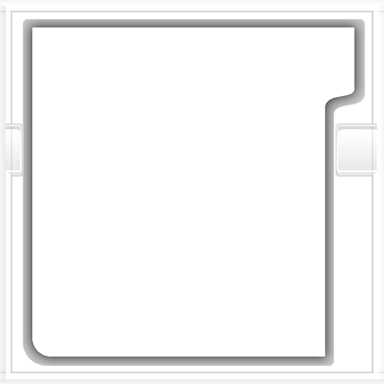
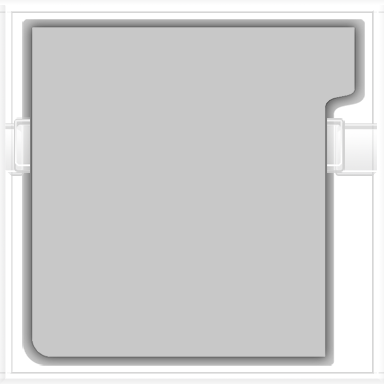
マウスオーバーの処理
マウスオーバー時、
* ツメが外れる
* 回転して少し大きくなる
ように。また、余りを詰める分の外枠の背景色を濃くした

diff --git a/r/view.js b/r/view.js
@@ -2,15 +2,11 @@ $(function(){
 	// インスタンス
 	var $item = $('<div>').addClass('col-lg-4 col-md-6 col-sm-6 col-xs-12 h4p_item').append(
 	).append(
-		$('<div>').addClass('h4p_item-frame').css('z-index', '5').append(
-			$('<img>').attr('src', '../img/cassette/tab.png')
+		$('<div>').addClass('h4p_item-frame h4p_item-front h4p_item-transform').css('z-index', '10').append(
+			$('<img>').attr('src', '../img/cassette/inner_tab.png')
 		)
 	).append(
-		$('<div>').addClass('h4p_item-cassette').append(
-			$('<div>').addClass('h4p_item-frame').css('z-index', '4').append(
-				$('<img>').attr('src', '../img/cassette/inner.png')
-			)
-		).append(
+		$('<div>').addClass('h4p_item-transform').append(
 			$('<div>').addClass('h4p_item-frame h4p_item-thumbnail').css({
 				'top':   40,
 				'left':  47,
@@ -38,6 +34,16 @@ $(function(){
 			)
 		)
 	);
+	// マウスオーバーイベント
+	$item.find('.h4p_item-front').hover(function() {
+		console.log('hover');
+		$(this).find('img').attr('src', '../img/cassette/inner_notab.png');
+		$(this).parent().find('.h4p_item-transform').addClass('transform-on');
+	}, function() {
+		$(this).find('img').attr('src', '../img/cassette/inner_tab.png');
+		$(this).parent().find('.h4p_item-transform').removeClass('transform-on');
+	});
+
 	// 一覧取得
 	$.post('../stage/fetchrecentpublished.php', {
 		'length': 15
@@ -113,9 +119,11 @@ $(function(){
 	});
 
 	// あまりを詰めるためのアイテム
-	var $blank = $item.clone(true);
-	$blank.addClass('h4p_item-blank');
-	$blank.find('.h4p_item-cassette').remove();
+	var $blank = $('<div>').addClass('col-lg-4 col-md-6 col-sm-6 col-xs-12 h4p_item h4p_item-blank').append(
+		$('<div>').addClass('h4p_item-frame').append(
+			$('<img>').attr('src', '../img/cassette/tab.png')
+		)
+	);
 
 	// サイズ調整 ロード時とリサイズ時
 	alignmentOnResize();

diff --git a/css/system.css b/css/system.css
@@ -142,3 +142,25 @@ iframe {
 .form-group *[data-toggle="tooltip"] .glyphicon{
 	right: 0px;
 }
+
+/* アニメーション */
+
+.h4p_item-transform {
+	width: 384px;
+	height: 384px;
+}
+
+.h4p_item-transform {
+	-webkit-transform-origin: center center;
+	-webkit-transform: rotateZ(0deg) scale(1,1);
+	transform-origin: center center;
+	transform: rotateZ(0deg) scale(1,1);
+}
+
+.h4p_item-transform.transform-on {
+	-webkit-transform: rotateZ(4deg) scale(1.05,1.05);
+	transform: rotateZ(4deg) scale(1.05,1.05);
+}
+
+
+
